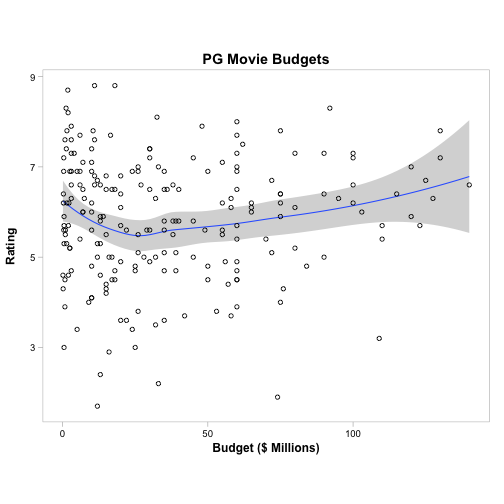
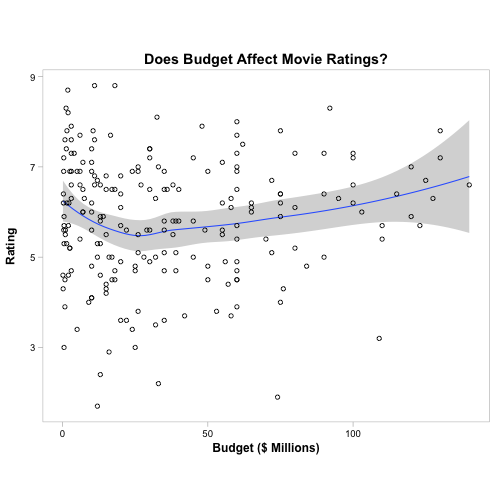
Fixed coord_square example

Changed region(s): [[0.2679, 0.0893, 0.7738, 0.1488]]

diff --git a/README.md b/README.md
@@ -134,5 +134,16 @@ ggplot(pg_movies, aes(x = year, y = budget/10^6, color = rating)) + geom_point()
 
 `coord_square` sets the aspect ratio of the axes according to a square.
 
+
+```r
+library(dplyr)
+
+pg_movies <- filter(movies, mpaa == "PG")
+
+ggplot(pg_movies, aes(x = budget/10^6, y = rating)) + geom_smooth() + geom_point(shape = 1) + 
+    labs(x = "Budget ($ Millions)", y = "Rating", title = "Does Budget Affect Movie Ratings?") + 
+    theme_bdc_grey() + coord_square(xvals = pg_movies$budget/10^6, yvals = movies$rating)
+```
+
 ![plot of chunk coord_square](figure/coord_square.png) 
 
